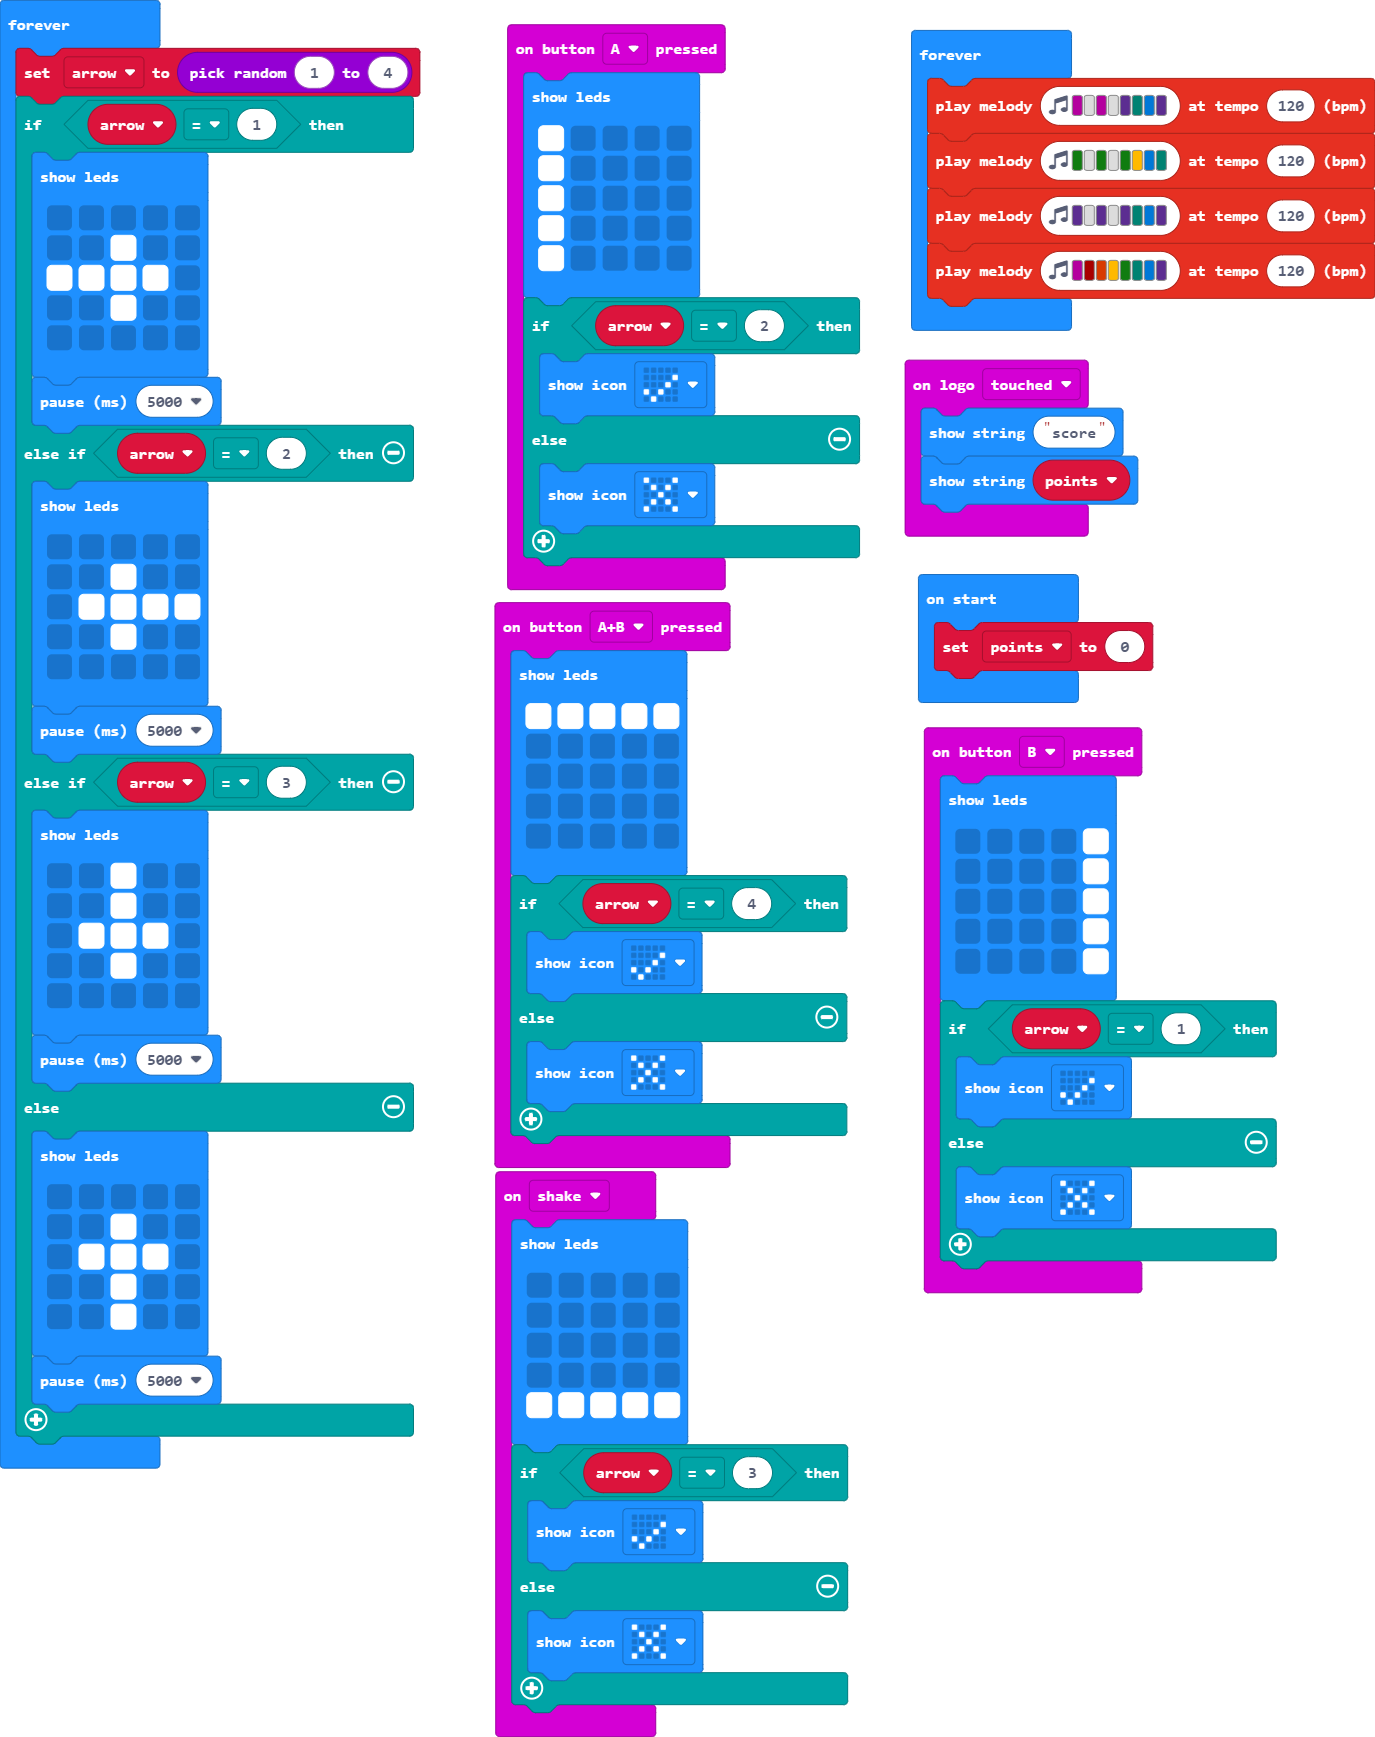
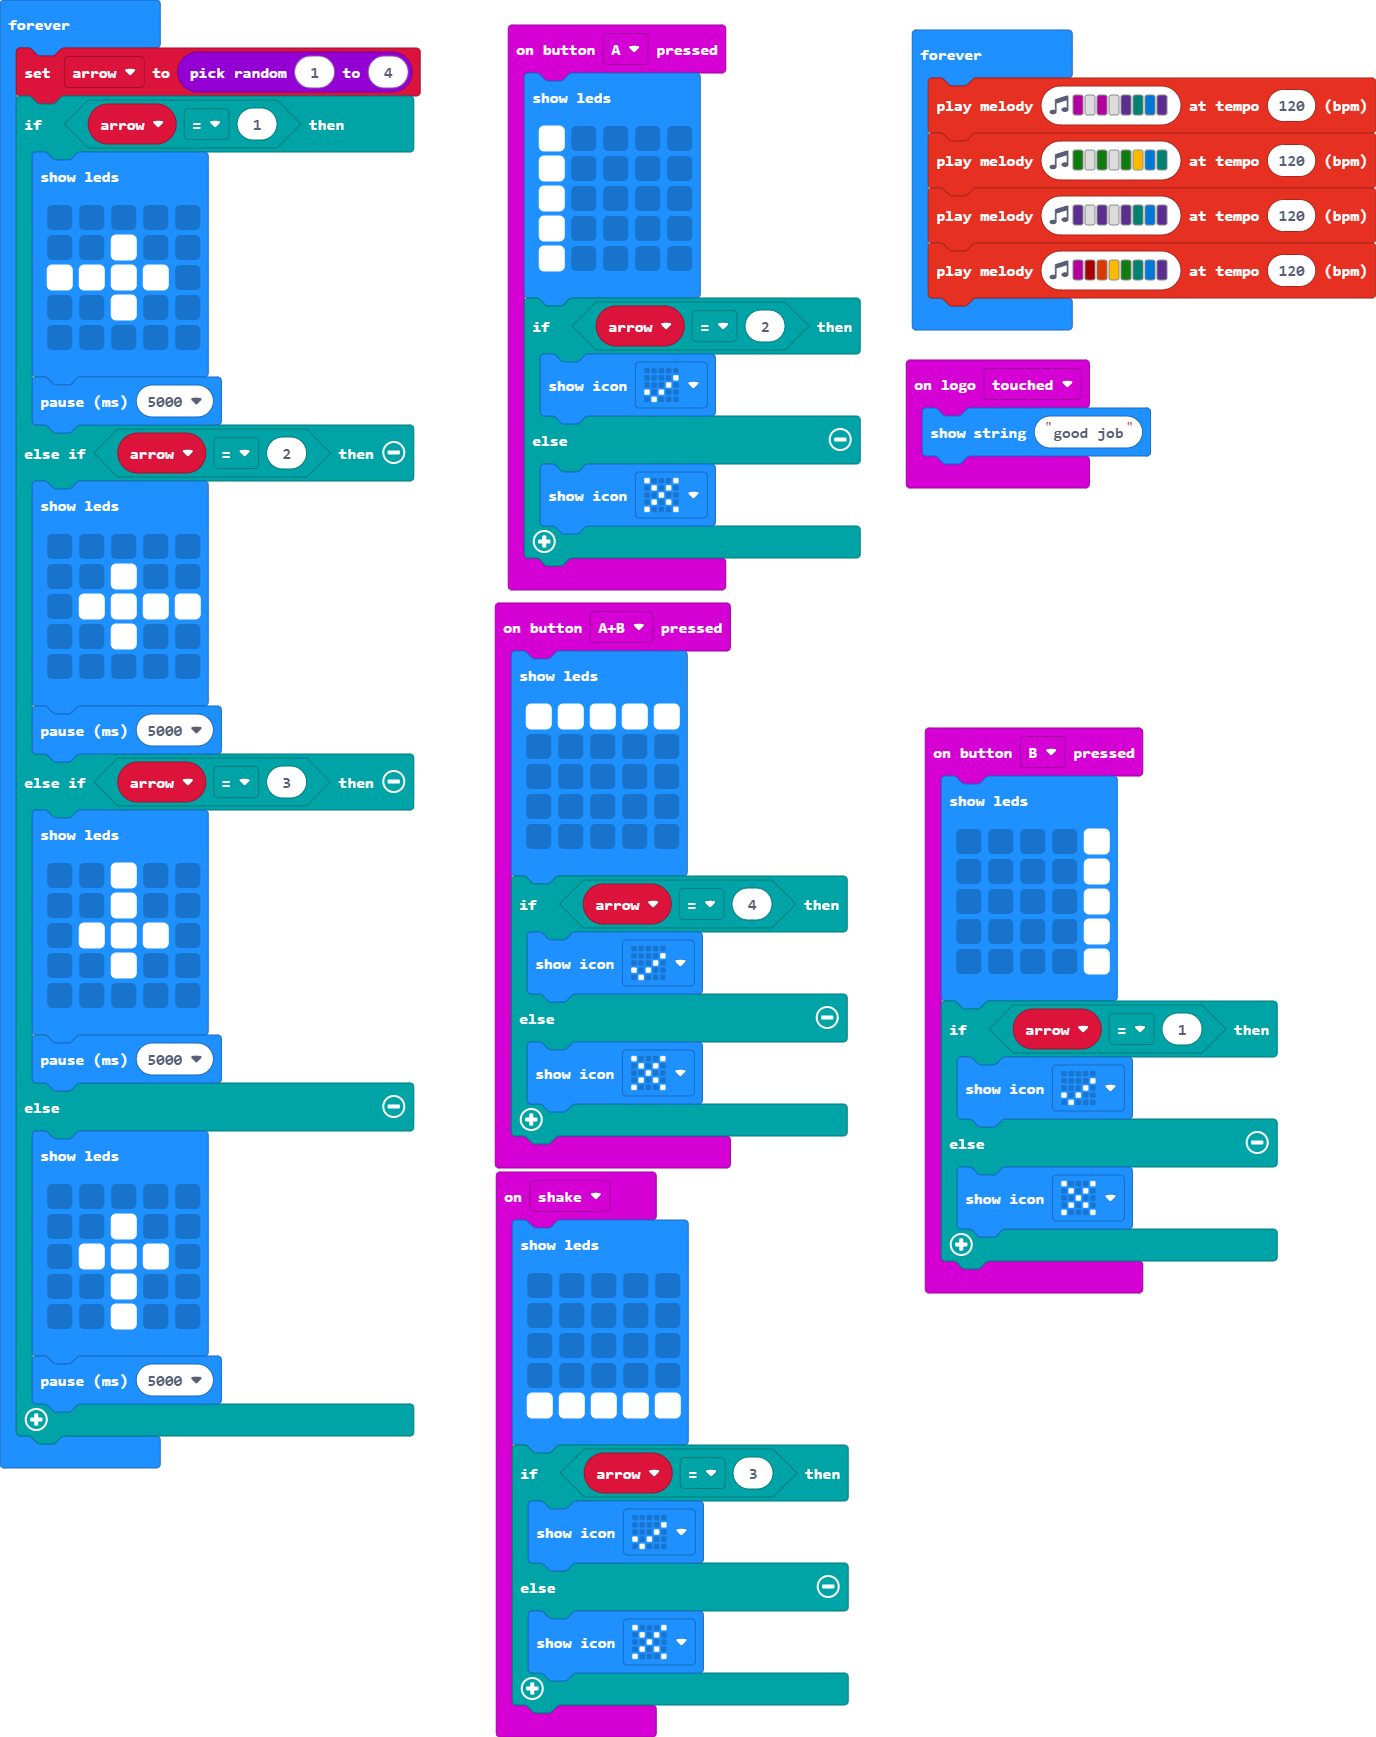
Update main.blocks, main.ts

diff --git a/main.ts b/main.ts
@@ -1,3 +1,4 @@
+let arrow = 0
 input.onButtonPressed(Button.A, function () {
     basic.showLeds(`
         # . . . .
@@ -55,12 +56,8 @@ input.onGesture(Gesture.Shake, function () {
     }
 })
 input.onLogoEvent(TouchButtonEvent.Touched, function () {
-    basic.showString("score")
-    basic.showString("" + (points))
+    basic.showString("good job")
 })
-let arrow = 0
-let points = 0
-points = 0
 basic.forever(function () {
     arrow = randint(1, 4)
     if (arrow == 1) {
